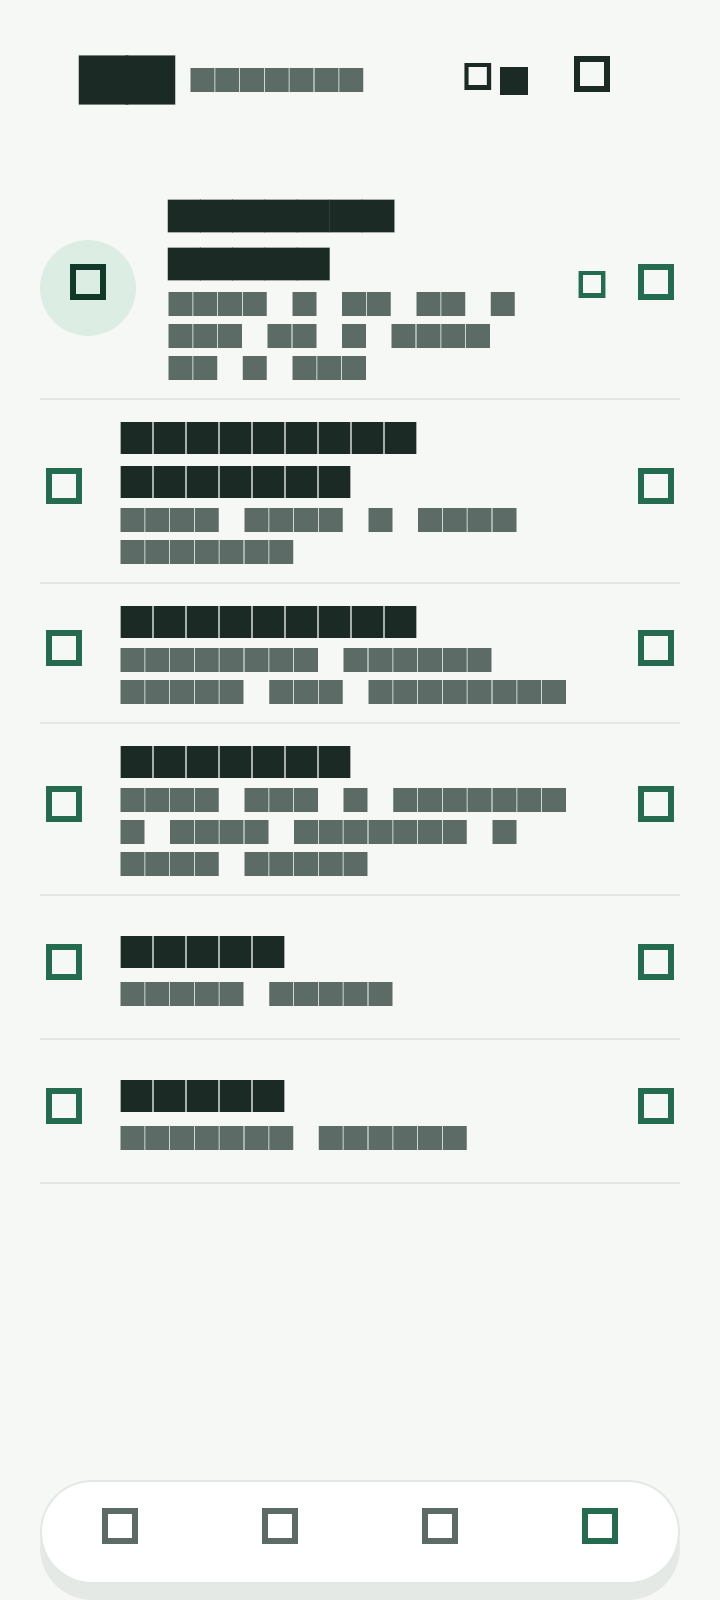
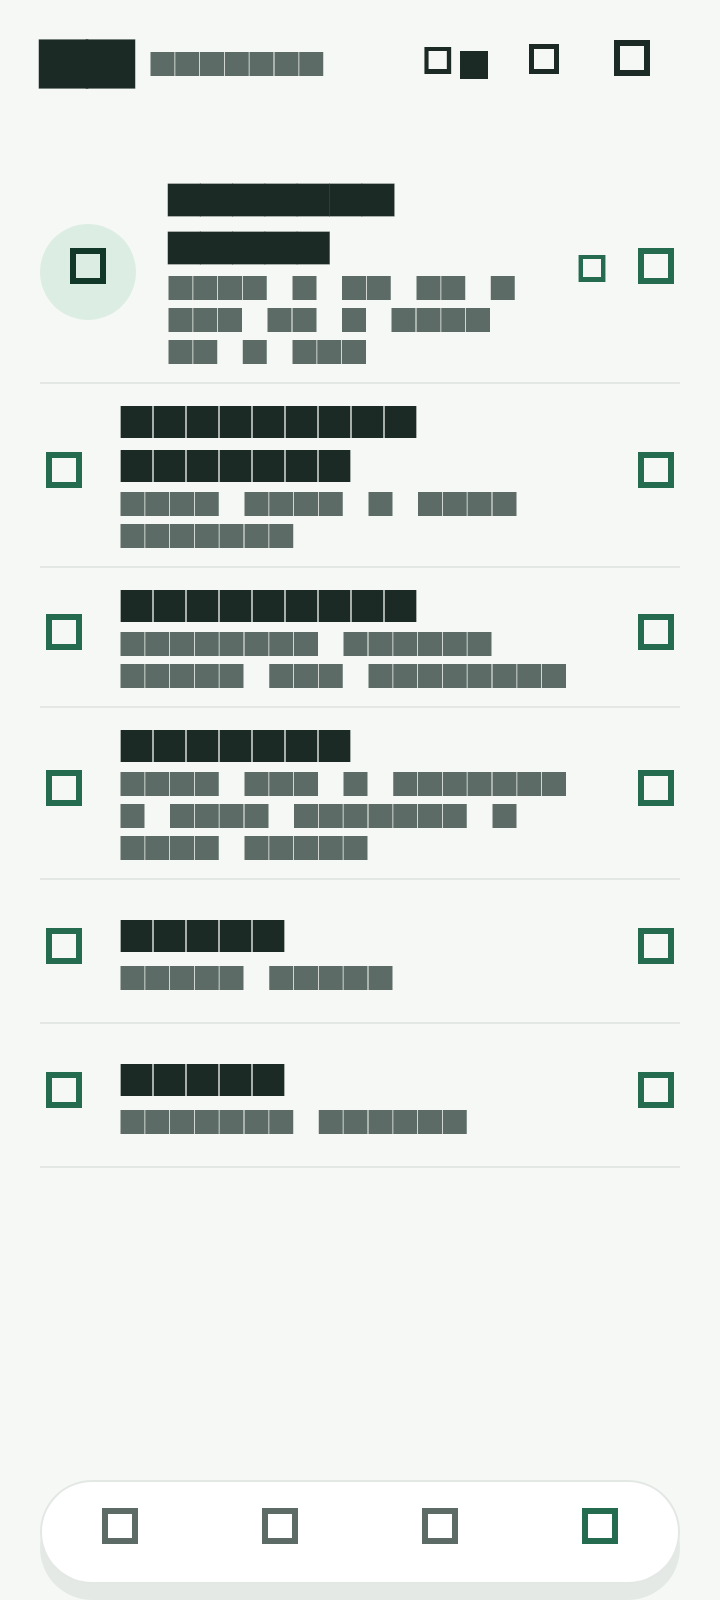
fix(profile): align 我的 title with 食物/记录, add light/dark toggle
The header row was indented twice (ListView inset + its own padding) so
"我" sat 20px further in than the rows below it and than the sibling tab
titles. Drop the inner side/top padding.

Re-add a quick light↔dark theme toggle (AppThemeId.toggled) next to the
language switch.

Claude-Session: https://claude.ai/code/session_01CWB8cLUtUBP9ZBJ1jWMsCM

diff --git a/lib/ui/profile/profile_page.dart b/lib/ui/profile/profile_page.dart
@@ -238,12 +238,9 @@ class _ProfilePageState extends ConsumerState<ProfilePage> {
           ),
           children: [
             Padding(
-              padding: const EdgeInsets.fromLTRB(
-                AppSpacing.listPage,
-                8,
-                AppSpacing.listPage,
-                AppSpacing.section,
-              ),
+              // Align the title with the rows below and with the 食物 / 记录
+              // pages: the ListView already supplies the 20px side inset.
+              padding: const EdgeInsets.only(bottom: AppSpacing.section),
               child: Row(
                 crossAxisAlignment: CrossAxisAlignment.center,
                 children: [
@@ -276,6 +273,20 @@ class _ProfilePageState extends ConsumerState<ProfilePage> {
                           style: theme.textTheme.labelLarge,
                         ),
                       ],
+                    ),
+                  ),
+                  IconButton(
+                    tooltip: l10n.theme,
+                    visualDensity: VisualDensity.compact,
+                    onPressed: () {
+                      final current = ref.read(themeProvider);
+                      ref.read(themeProvider.notifier).select(current.toggled);
+                    },
+                    icon: Icon(
+                      ref.watch(themeProvider).isDark
+                          ? Icons.dark_mode_outlined
+                          : Icons.light_mode_outlined,
+                      size: 20,
                     ),
                   ),
                   if (isAndroid)
